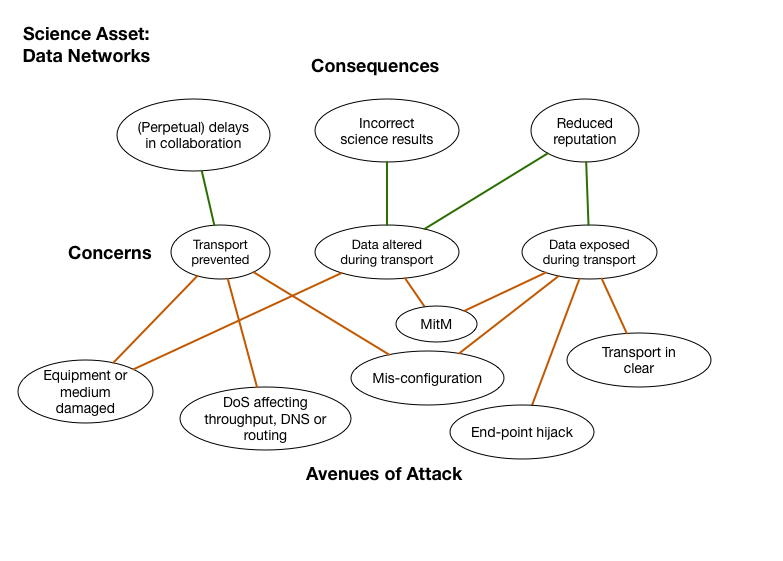
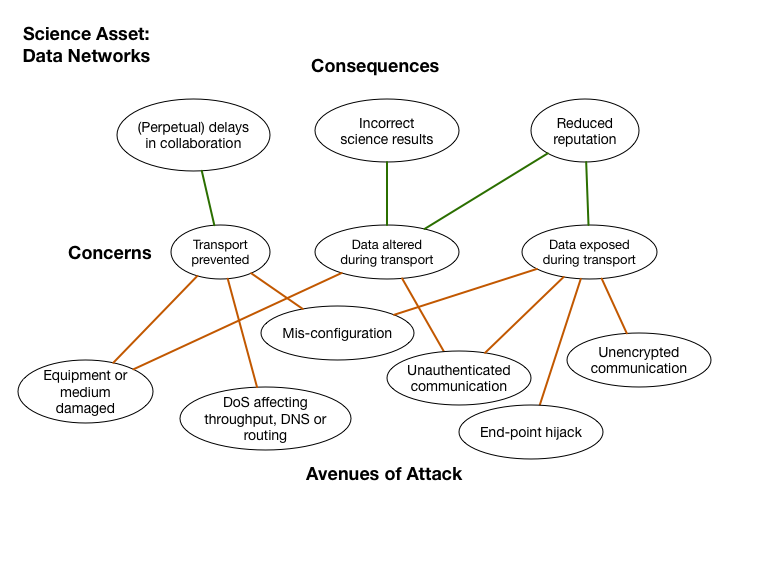
Removed security-heavy lingo from Network asset.

diff --git a/assets/Networks.md b/assets/Networks.md
@@ -6,4 +6,11 @@ permalink: assets/Networks.html
 
 # Networks
 
+*Primary Asset Type:*  Data Networks
+
+Any component of cyberinfrastructure used in transporting data from
+from onsite to a remote location.  This includes the physical medium,
+routers, switches, patch-panels, routing protocols, domain name
+services, and any configuration management associated with them.
+
 ![Networks](../diagrams/Data%20Network.png)
